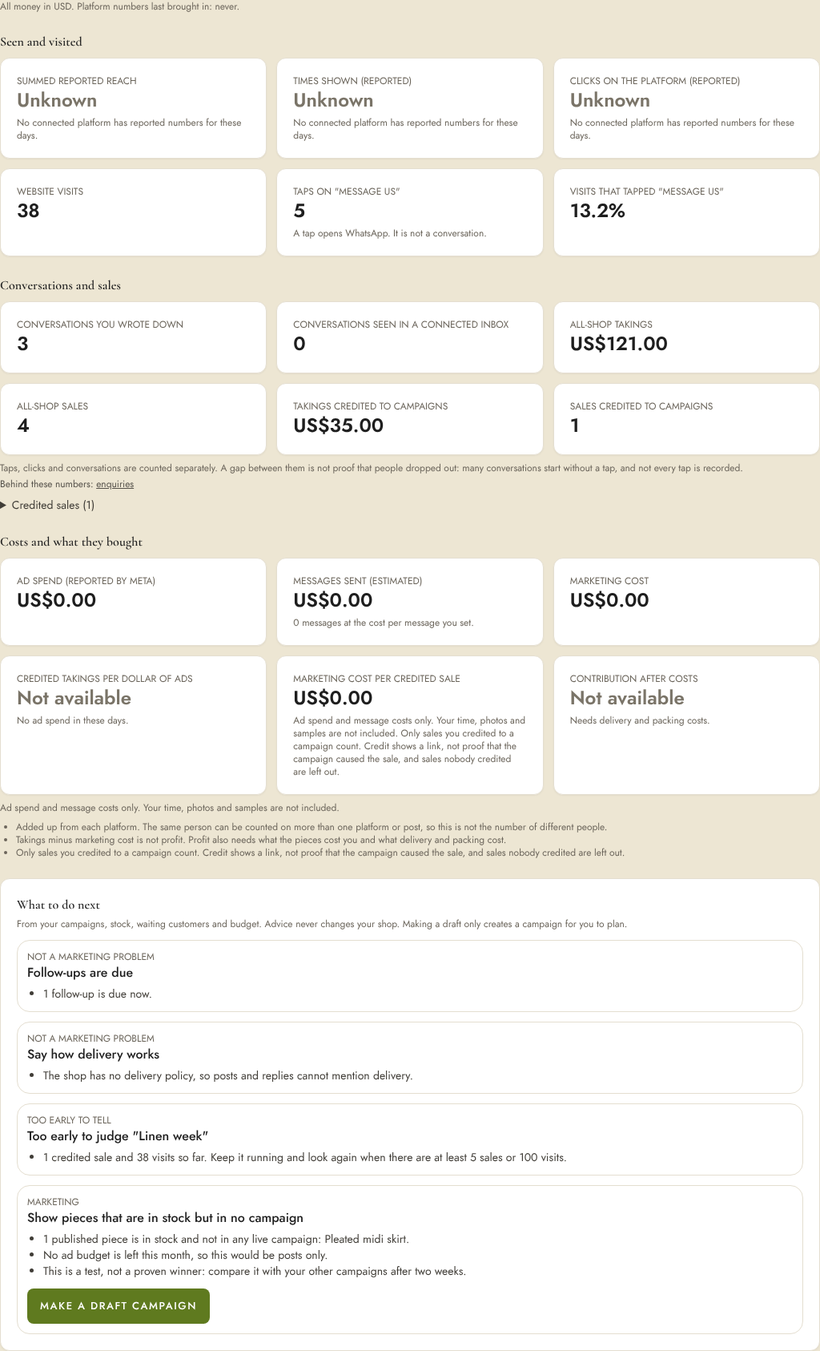
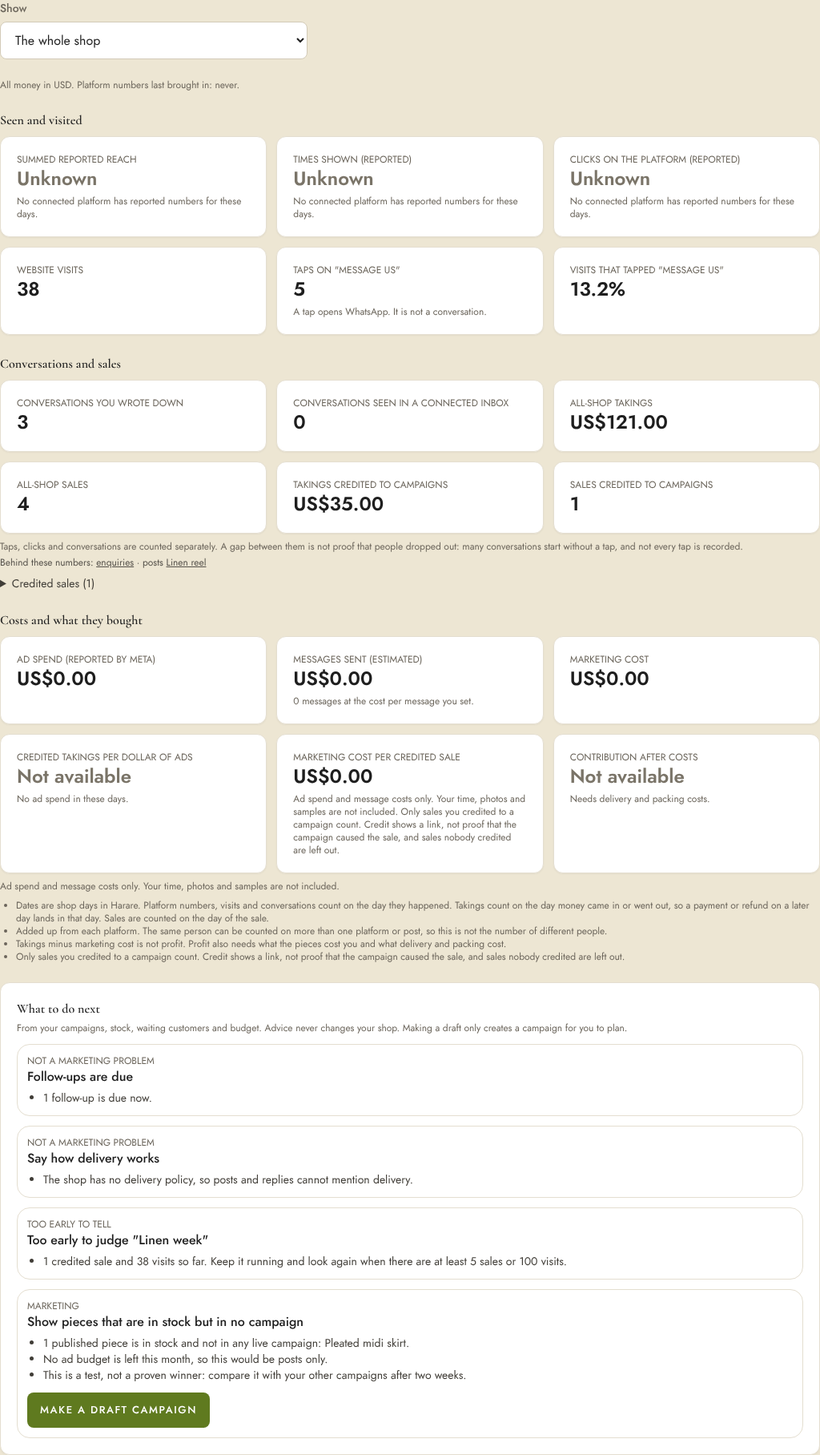
ZP-1119 (MM-14): tables show Unknown for unreported platform numbers; results per campaign
The By channel, post, product and campaign tables now count the days a platform
actually reported. Without one, reach, times shown and clicks show Unknown with
the same labels as the panel, instead of 0 or impressions-or-reach as Seen.
The panel can show one campaign: its cost is its ad spend, and messages are
said to be not tied to a campaign. The date basis is stated, the credited
sales list says it is by sale day, and posts link to their content.
The advice test now counts only its own campaign's posts and ads.

Claude-Session: https://claude.ai/code/session_01HzLRkQyMFxADTmZvX5da2b

diff --git a/src/components/marketing/TruthPanel.tsx b/src/components/marketing/TruthPanel.tsx
@@ -17,11 +17,12 @@ interface Truth {
     roas: Metric; costPerCreditedSale: Metric; contribution: Metric & { missing: string[] };
     notes: string[];
   };
-  records: { creditedSaleIds: number[]; creditedSales: { id: number; saleDate: string; total: number; customerName: string | null }[]; adIds: number[]; postIds: number[]; broadcastIds: number[] };
+  campaignId: number | null;
+  records: { creditedSaleIds: number[]; creditedSales: { id: number; saleDate: string; total: number; customerName: string | null }[]; adIds: number[]; postIds: number[]; posts: { id: number; contentId: number; title: string }[]; broadcastIds: number[] };
 }
 interface Advice { key: string; kind: 'MARKETING' | 'NOT_MARKETING' | 'TOO_EARLY'; title: string; evidence: string[]; draft: { name: string; productIds: number[] } | null }
 
-const MONEY = new Set(['All-shop takings', 'Takings credited to campaigns', 'Marketing cost', 'Marketing cost per credited sale', 'Contribution after costs']);
+const MONEY = new Set(['All-shop takings', 'Takings credited to campaigns', 'Takings credited to this campaign', 'Marketing cost', 'Marketing cost per credited sale', 'Contribution after costs']);
 const KIND_LABEL: Record<Advice['kind'], string> = { MARKETING: 'Marketing', NOT_MARKETING: 'Not a marketing problem', TOO_EARLY: 'Too early to tell' };
 
 function show(m: Metric, money = false): string {
@@ -43,16 +44,23 @@ function Tile({ m, testId }: { m: Metric; testId?: string }) {
   );
 }
 
-export function TruthPanel({ from, to }: { from: string; to: string }) {
+export function TruthPanel({ from, to, campaignId: fixedCampaign }: { from: string; to: string; campaignId?: number }) {
   const [d, setD] = useState<{ truth: Truth; advice: Advice[] } | null>(null);
+  const [campaigns, setCampaigns] = useState<{ id: number; name: string }[]>([]);
+  const [chosen, setChosen] = useState<number | null>(fixedCampaign ?? null);
   const [error, setError] = useState<string | null>(null);
   const [note, setNote] = useState<string | null>(null);
   const [busy, setBusy] = useState<string | null>(null);
 
   const load = useCallback(() => {
-    mk<{ truth: Truth; advice: Advice[] }>(`/api/marketing/results/truth?from=${from}&to=${to}`).then(setD).catch((e) => setError(e instanceof Error ? e.message : 'Could not load.'));
-  }, [from, to]);
+    const q = chosen ? `&campaignId=${chosen}` : '';
+    mk<{ truth: Truth; advice: Advice[] }>(`/api/marketing/results/truth?from=${from}&to=${to}${q}`).then(setD).catch((e) => setError(e instanceof Error ? e.message : 'Could not load.'));
+  }, [from, to, chosen]);
   useEffect(() => { load(); }, [load]);
+  useEffect(() => {
+    if (fixedCampaign) return;
+    mk<{ campaigns: { id: number; name: string }[] }>('/api/marketing/campaigns').then((x) => setCampaigns(x.campaigns)).catch(() => setCampaigns([]));
+  }, [fixedCampaign]);
 
   const accept = async (a: Advice) => {
     setBusy(a.key); setError(null); setNote(null);
@@ -71,6 +79,15 @@ export function TruthPanel({ from, to }: { from: string; to: string }) {
     <div className="space-y-6" data-testid="truth-panel">
       <ErrorNote message={error} />
       {note ? <p className="rounded-lg border border-brand-olive-200 bg-brand-olive-50 px-4 py-3 text-sm text-brand-olive-700" role="status" data-testid="truth-note">{note}</p> : null}
+      {!fixedCampaign ? (
+        <div className="max-w-sm">
+          <label className="label" htmlFor="truth-campaign">Show</label>
+          <select id="truth-campaign" className="input" value={chosen ?? ''} onChange={(e) => setChosen(e.target.value ? Number(e.target.value) : null)} data-testid="truth-campaign">
+            <option value="">The whole shop</option>
+            {campaigns.map((c) => <option key={c.id} value={c.id}>Campaign: {c.name}</option>)}
+          </select>
+        </div>
+      ) : null}
       <p className="text-xs text-slate-500">All money in {d.truth.currency}. Platform numbers last brought in: {d.truth.syncedAt ? new Intl.DateTimeFormat('en-GB', { dateStyle: 'medium', timeStyle: 'short', timeZone: 'Africa/Harare' }).format(new Date(d.truth.syncedAt)) : 'never'}.</p>
 
       <section>
@@ -91,12 +108,13 @@ export function TruthPanel({ from, to }: { from: string; to: string }) {
         <p className="mt-2 text-xs text-slate-500">{r.conversations.note}</p>
         <p className="mt-1 text-xs text-slate-600" data-testid="truth-records">
           Behind these numbers: <Link className="underline" href="/marketing/enquiries">enquiries</Link>
-          {rec.postIds.length ? <> · {rec.postIds.length} posts</> : null}
-          {rec.adIds.length ? <> · ads {rec.adIds.map((id, i) => <React.Fragment key={id}>{i ? ', ' : ''}<Link className="underline" href="/marketing/ads">{id}</Link></React.Fragment>)}</> : null}
+          {rec.posts.length ? <> · posts {rec.posts.map((p, i) => <React.Fragment key={p.id}>{i ? ', ' : ''}<Link className="underline" href={`/marketing/content/${p.contentId}`}>{p.title}</Link></React.Fragment>)}</> : null}
+          {rec.adIds.length ? <> · ads {rec.adIds.map((id, i) => <React.Fragment key={id}>{i ? ', ' : ''}<Link className="underline" href="/marketing/ads">ad {id}</Link></React.Fragment>)}</> : null}
           {rec.broadcastIds.length ? <> · messages {rec.broadcastIds.map((id, i) => <React.Fragment key={id}>{i ? ', ' : ''}<Link className="underline" href={`/marketing/messages/${id}`}>{id}</Link></React.Fragment>)}</> : null}
         </p>
         <details className="mt-2" data-testid="truth-credited-sales">
           <summary className="cursor-pointer text-sm text-slate-700">Credited sales ({rec.creditedSales.length})</summary>
+          <p className="mt-1 text-xs text-slate-500">Listed by the day of the sale. Credited takings count money on the day it came in or went out, so a later payment or refund can make the two differ.</p>
           {rec.creditedSales.length === 0 ? <p className="mt-1 text-sm text-slate-500">None in these dates.</p> : (
             <ul className="mt-1 divide-y divide-slate-100 text-sm">
               {rec.creditedSales.map((s) => <li key={s.id} className="py-1">Sale {s.id} · {new Intl.DateTimeFormat('en-GB', { dateStyle: 'medium', timeZone: 'Africa/Harare' }).format(new Date(s.saleDate))} · US${s.total.toFixed(2)}{s.customerName ? ` · ${s.customerName}` : ''}</li>)}
@@ -116,7 +134,7 @@ export function TruthPanel({ from, to }: { from: string; to: string }) {
         <ul className="mt-2 list-disc pl-5 text-xs text-slate-500">{r.notes.map((n) => <li key={n}>{n}</li>)}</ul>
       </section>
 
-      <Card>
+      {d.truth.campaignId ? null : <Card>
         <h2 className="font-semibold text-slate-900 mb-1">What to do next</h2>
         <p className="text-xs text-slate-500 mb-3">From your campaigns, stock, waiting customers and budget. Advice never changes your shop. Making a draft only creates a campaign for you to plan.</p>
         {d.advice.length === 0 ? <p className="text-sm text-slate-500">Nothing stands out right now.</p> : null}
@@ -130,7 +148,7 @@ export function TruthPanel({ from, to }: { from: string; to: string }) {
             </li>
           ))}
         </ul>
-      </Card>
+      </Card>}
     </div>
   );
 }

diff --git a/tests/results-truth-db.test.ts b/tests/results-truth-db.test.ts
@@ -4,6 +4,7 @@
 import { describe, test, before, after } from 'node:test'
 import assert from 'node:assert'
 import prisma from '../src/lib/db'
+import { resultsReport } from '../src/lib/marketing/results'
 import { acceptAdvice, loadAdvice, loadTruth } from '../src/lib/marketing/results-truth-db'
 import { WebsiteError } from '../src/lib/website/http'
 
@@ -52,6 +53,29 @@ describe('MM-14 against the real ledger', () => {
     assert.strictEqual(t.currency, 'USD')
   })
 
+  test('AC1 and AC3 on the tables: a row with only website numbers has no reported platform days, so the page shows Unknown, not 0', async () => {
+    // The analytics rollup writes visits onto the post's daily row with no platform payload (raw stays null).
+    await prisma.marketingMetric.create({ data: { entity: 'POST', entityId: ids.post, day: new Date('2034-05-10T00:00:00Z'), visits: 40, enquiries: 4 } })
+    const r = await resultsReport(prisma, range)
+    const row = r.perPost.find((p) => p.postId === ids.post)!
+    assert.deepStrictEqual([row.visits, row.reportedDays, row.reach, row.impressions, row.clicks], [40, 0, 0, 0, 0])
+    const campaignRow = r.perCampaign.find((c) => c.key === String(ids.campaign))!
+    assert.strictEqual(campaignRow.reportedDays, 0)
+    // The panel for the same campaign agrees: unknown.
+    assert.strictEqual((await loadTruth(prisma, range, { campaignId: ids.campaign })).report.reach.state, 'UNKNOWN')
+  })
+
+  test('one campaign: messages are not tied to it, so its cost is its ad spend only; posts link to their content', async () => {
+    const t = await loadTruth(prisma, range, { campaignId: ids.campaign })
+    const msg = t.report.costs.items.find((m) => m.label === 'Messages sent')!
+    assert.strictEqual(msg.state, 'NOT_AVAILABLE')
+    assert.match(msg.note ?? '', /not tied to a campaign/)
+    assert.doesNotMatch(JSON.stringify(t.report.costs), /No messages were sent/)
+    assert.deepStrictEqual([t.report.costs.total.state, t.report.costs.total.value], ['KNOWN', 0])
+    assert.deepStrictEqual(t.records.posts, [{ id: ids.post, contentId: ids.content, title: 'ZP1119 content' }])
+    assert.ok(t.report.notes.some((n) => /day money came in/.test(n)))
+  })
+
   test('AC1 and AC6: once a platform reports, reach is summed reported reach; the records behind the numbers are listed', async () => {
     await prisma.marketingMetric.create({ data: { entity: 'POST', entityId: ids.post, day: new Date('2034-05-11T00:00:00Z'), reach: 300, impressions: 500, clicks: 9, raw: { lifetime: { reach: 300 } } } })
     const t = await loadTruth(prisma, range, { campaignId: ids.campaign })
@@ -59,6 +83,9 @@ describe('MM-14 against the real ledger', () => {
     assert.deepStrictEqual(t.records.creditedSaleIds, [ids.sale])
     assert.deepStrictEqual(t.records.postIds, [ids.post])
     assert.ok(t.syncedAt)
+    // The tables now count that reported day, and show the same reach as the panel.
+    const row = (await resultsReport(prisma, range)).perPost.find((p) => p.postId === ids.post)!
+    assert.deepStrictEqual([row.reportedDays, row.reach, row.impressions, row.clicks], [1, 300, 500, 9])
   })
 
   test('AC4: a sold piece with no cost on file keeps contribution unavailable; fulfilment is never on file', async () => {
@@ -77,12 +104,18 @@ describe('MM-14 against the real ledger', () => {
     const advice = await loadAdvice(prisma, range, at('2034-05-20'))
     const idle = advice.find((a) => a.key.startsWith('idle-stock') && a.draft?.productIds.includes(ids.products[1]))
     assert.ok(idle, 'piece 2 is in stock and in no live campaign')
-    const before = { posts: await prisma.marketingPost.count(), ads: await prisma.marketingAd.count(), stock: (await prisma.product.findUniqueOrThrow({ where: { id: ids.products[1] } })).currentQuantity }
+    const stockBefore = (await prisma.product.findUniqueOrThrow({ where: { id: ids.products[1] } })).currentQuantity
     const c = await acceptAdvice(prisma, range, idle!.key, OWNER, at('2034-05-20'))
     ids.extraCampaigns.push(c.id)
     assert.strictEqual(c.status, 'DRAFT')
     assert.ok(c.productIds.includes(ids.products[1]))
-    assert.deepStrictEqual({ posts: await prisma.marketingPost.count(), ads: await prisma.marketingAd.count(), stock: (await prisma.product.findUniqueOrThrow({ where: { id: ids.products[1] } })).currentQuantity }, before)
+    // Nothing hangs off the draft and stock is untouched. Counted for this campaign only, because other test files
+    // running at the same time add and remove their own posts and ads.
+    assert.deepStrictEqual({
+      content: await prisma.marketingContent.count({ where: { campaignId: c.id } }),
+      ads: await prisma.marketingAd.count({ where: { campaignId: c.id } }),
+      stock: (await prisma.product.findUniqueOrThrow({ where: { id: ids.products[1] } })).currentQuantity,
+    }, { content: 0, ads: 0, stock: stockBefore })
     await assert.rejects(() => acceptAdvice(prisma, range, 'idle-stock-0', OWNER), (e: unknown) => e instanceof WebsiteError && e.status === 409)
     const forOwner = advice.find((a) => a.draft === null)
     if (forOwner) await assert.rejects(() => acceptAdvice(prisma, range, forOwner.key, OWNER, at('2034-05-20')), (e: unknown) => e instanceof WebsiteError && e.status === 409)

diff --git a/src/lib/marketing/results-truth.ts b/src/lib/marketing/results-truth.ts
@@ -24,6 +24,7 @@ export function rate(top: Metric, bottom: Metric, label: string): Metric {
 export const REACH_LABEL = 'Summed reported reach'
 export const REACH_NOTE = 'Added up from each platform. The same person can be counted on more than one platform or post, so this is not the number of different people.'
 export const ATTRIBUTION_LIMITS = 'Only sales you credited to a campaign count. Credit shows a link, not proof that the campaign caused the sale, and sales nobody credited are left out.'
+export const DATE_BASIS = 'Dates are shop days in Harare. Platform numbers, visits and conversations count on the day they happened. Takings count on the day money came in or went out, so a payment or refund on a later day lands in that day. Sales are counted on the day of the sale.'
 export const PROFIT_NOTE = 'Takings minus marketing cost is not profit. Profit also needs what the pieces cost you and what delivery and packing cost.'
 
 /** How many records a judgement needs before it is more than a hint. */
@@ -36,6 +37,8 @@ export interface TruthInput {
   conversations: { ownerRecorded: number; providerObserved: number; won: number }
   sales: { allShopNetCents: number; allShopCount: number; creditedNetCents: number; creditedCount: number }
   costs: { adSpendCents: number; adSpendKnown: boolean; messageCostCents: number | null; messagesSent: number }
+  /** Set when the numbers are for one campaign. Messages are not tied to a campaign, so their cost is left out. */
+  campaignId?: number | null
   /** Cost of goods for the credited sales, when every sold piece has a unit cost. */
   goodsCostCents: number | null
   /** Delivery and packing cost: the shop does not record it yet. */
@@ -72,16 +75,22 @@ export function truthReport(i: TruthInput): TruthReport {
   const tapRate = rate(taps, visits, 'Visits that tapped "Message us"')
 
   const ad = i.costs.adSpendKnown ? known(money(i.costs.adSpendCents), 'Ad spend (reported by Meta)') : unknown('Ad spend', 'No ad has reported its spend.')
-  const msg = i.costs.messageCostCents === null
+  const msg: Metric = i.campaignId
+    ? { value: null, state: 'NOT_AVAILABLE', label: 'Messages sent', note: 'Messages are not tied to a campaign, so their cost is not counted here.' }
+    : i.costs.messageCostCents === null
     ? (i.costs.messagesSent > 0 ? unknown('Messages sent', `${i.costs.messagesSent} sent, but the cost per message is not set.`) : known(0, 'Messages sent', 'No messages were sent.'))
     : known(money(i.costs.messageCostCents), 'Messages sent (estimated)', `${i.costs.messagesSent} messages at the cost per message you set.`)
   const items = [ad, msg]
-  const allKnown = items.every((m) => m.state === 'KNOWN')
-  const total = allKnown ? known(items.reduce((s, m) => s + (m.value ?? 0), 0), 'Marketing cost') : unknown('Marketing cost', 'At least one cost is not known, so there is no total.')
-  const scope = 'Ad spend and message costs only. Your time, photos and samples are not included.'
+  // One campaign's cost is its ads only (messages belong to no campaign).
+  const counted = i.campaignId ? [ad] : items
+  const allKnown = counted.every((m) => m.state === 'KNOWN')
+  const total = allKnown ? known(counted.reduce((s, m) => s + (m.value ?? 0), 0), 'Marketing cost') : unknown('Marketing cost', 'At least one cost is not known, so there is no total.')
+  const scope = i.campaignId
+    ? 'This campaign\'s ad spend only. Messages are not tied to a campaign. Your time, photos and samples are not included.'
+    : 'Ad spend and message costs only. Your time, photos and samples are not included.'
 
-  const creditedNet = known(money(i.sales.creditedNetCents), 'Takings credited to campaigns')
-  const creditedCount = known(i.sales.creditedCount, 'Sales credited to campaigns')
+  const creditedNet = known(money(i.sales.creditedNetCents), i.campaignId ? 'Takings credited to this campaign' : 'Takings credited to campaigns')
+  const creditedCount = known(i.sales.creditedCount, i.campaignId ? 'Sales credited to this campaign' : 'Sales credited to campaigns')
   const roas = ad.state !== 'KNOWN'
     ? unknown('Credited takings per dollar of ads', 'Ad spend is not known.')
     : !ad.value
@@ -116,7 +125,7 @@ export function truthReport(i: TruthInput): TruthReport {
     },
     costs: { items, total, scope },
     roas, costPerCreditedSale, contribution,
-    notes: [REACH_NOTE, PROFIT_NOTE, ATTRIBUTION_LIMITS],
+    notes: [DATE_BASIS, REACH_NOTE, PROFIT_NOTE, ATTRIBUTION_LIMITS],
   }
 }
 

diff --git a/src/app/(admin)/marketing/results/page.tsx b/src/app/(admin)/marketing/results/page.tsx
@@ -7,7 +7,7 @@ import { TruthPanel } from '@/components/marketing/TruthPanel';
 import { getChannel } from '@/lib/marketing/channels';
 import { defaultRange, enquiryRate, REC_STATUS_LABELS, usd } from '@/lib/marketing/ui';
 
-interface Row { key: string; label: string; posts: number; ads: number; impressions: number; reach: number; clicks: number; visits: number; enquiries: number; spendCents: number }
+interface Row { key: string; label: string; posts: number; ads: number; impressions: number; reach: number; clicks: number; visits: number; enquiries: number; spendCents: number; reportedDays: number }
 interface Report {
   from: string; to: string;
   totals: Omit<Row, 'key' | 'label' | 'posts' | 'ads'>;
@@ -20,6 +20,11 @@ interface Rec { id: number; weekOf: string; kind: string; title: string; body: s
 
 const channelName = (k: string) => getChannel(k)?.label ?? k;
 
+/** A platform number is known only when a platform reported it for this row; otherwise it is unknown, never 0. */
+function Platform({ r, n }: { r: Row; n: number }) {
+  return r.reportedDays > 0 ? <>{n}</> : <span className="text-slate-400" data-state="UNKNOWN">Unknown</span>;
+}
+
 function Table({ title, rows, labelOf, testId }: { title: string; rows: Row[]; labelOf?: (r: Row) => string; testId: string }) {
   return (
     <Card>
@@ -30,8 +35,9 @@ function Table({ title, rows, labelOf, testId }: { title: string; rows: Row[]; l
             <thead>
               <tr className="text-left text-xs uppercase text-slate-500">
                 <th className="py-2 pr-3 font-medium">Name</th>
-                <th className="py-2 pr-3 font-medium text-right">Seen</th>
-                <th className="py-2 pr-3 font-medium text-right">Clicks</th>
+                <th className="py-2 pr-3 font-medium text-right">Summed reported reach</th>
+                <th className="py-2 pr-3 font-medium text-right">Times shown (reported)</th>
+                <th className="py-2 pr-3 font-medium text-right">Clicks (reported)</th>
                 <th className="py-2 pr-3 font-medium text-right">Visits</th>
                 <th className="py-2 pr-3 font-medium text-right">Message taps</th>
                 <th className="py-2 pr-3 font-medium text-right">Tap rate</th>
@@ -42,8 +48,9 @@ function Table({ title, rows, labelOf, testId }: { title: string; rows: Row[]; l
               {rows.map((r) => (
                 <tr key={r.key}>
                   <td className="py-2 pr-3 text-slate-900">{labelOf ? labelOf(r) : r.label}</td>
-                  <td className="py-2 pr-3 text-right">{r.impressions || r.reach}</td>
-                  <td className="py-2 pr-3 text-right">{r.clicks}</td>
+                  <td className="py-2 pr-3 text-right"><Platform r={r} n={r.reach} /></td>
+                  <td className="py-2 pr-3 text-right"><Platform r={r} n={r.impressions} /></td>
+                  <td className="py-2 pr-3 text-right"><Platform r={r} n={r.clicks} /></td>
                   <td className="py-2 pr-3 text-right">{r.visits}</td>
                   <td className="py-2 pr-3 text-right">{r.enquiries}</td>
                   <td className="py-2 pr-3 text-right">{enquiryRate(r.visits, r.enquiries)}</td>
@@ -127,7 +134,7 @@ export default function ResultsPage() {
             {busy === 'sync' ? 'Updating…' : 'Update the numbers'}
           </button>
         </div>
-        <p className="mt-2 text-xs text-slate-500">Visits and message taps come from your own website. A tap opens WhatsApp: it is not a conversation. Conversations are under Enquiries. Seen and clicks come from Facebook, Instagram and Meta ads once they are connected.</p>
+        <p className="mt-2 text-xs text-slate-500">Visits and message taps come from your own website. A tap opens WhatsApp: it is not a conversation. Conversations are under Enquiries. Reach, times shown and clicks come from Facebook, Instagram and Meta ads once they are connected. Until a platform reports them for a row, they show as Unknown.</p>
       </Card>
 
       {!report ? <Loading /> : (

diff --git a/src/lib/marketing/results-truth-db.ts b/src/lib/marketing/results-truth-db.ts
@@ -20,6 +20,8 @@ export interface TruthRecords {
   creditedSales: { id: number; saleDate: string; total: number; customerName: string | null }[]
   adIds: number[]
   postIds: number[]
+  /** The posts behind the numbers, with the content page each one belongs to. */
+  posts: { id: number; contentId: number; title: string }[]
   broadcastIds: number[]
 }
 
@@ -99,9 +101,12 @@ export async function loadTruth(db: Db, range: { from: string; to: string }, opt
     conversations: { ownerRecorded: conv.ownerRecorded, providerObserved: conv.providerObserved, won: conv.won },
     sales: { allShopNetCents: cents(sales.allShop.net), allShopCount: sales.allShop.salesCount, creditedNetCents, creditedCount },
     costs: { adSpendCents: sum(adRows, 'spendCents'), adSpendKnown, messageCostCents, messagesSent: sent.length },
+    campaignId,
     goodsCostCents: creditedSales.length ? goodsCostCents : 0,
     fulfilmentCostCents: null,
   })
+  const postIdsWithNumbers = [...new Set(metrics.filter((m) => m.entity === 'POST').map((m) => m.entityId))].sort((a, b) => a - b)
+  const postRows = await db.marketingPost.findMany({ where: { id: { in: postIdsWithNumbers } }, select: { id: true, contentId: true, content: { select: { title: true } } }, orderBy: { id: 'asc' } })
   const last = await db.marketingMetric.findFirst({ where: { NOT: { raw: { equals: Prisma.AnyNull } } }, orderBy: { updatedAt: 'desc' }, select: { updatedAt: true } })
   return {
     from: range.from, to: range.to, campaignId, currency: 'USD',
@@ -111,7 +116,8 @@ export async function loadTruth(db: Db, range: { from: string; to: string }, opt
       creditedSaleIds: creditedSales.map((s) => s.id).sort((a, b) => a - b),
       creditedSales: creditedSales.map((s) => ({ id: s.id, saleDate: s.saleDate.toISOString(), total: s.totalAmount, customerName: s.customerName })).sort((a, b) => a.id - b.id),
       adIds: [...new Set(adRows.filter((m) => m.spendCents > 0).map((m) => m.entityId))].sort((a, b) => a - b),
-      postIds: [...new Set(metrics.filter((m) => m.entity === 'POST').map((m) => m.entityId))].sort((a, b) => a - b),
+      postIds: postIdsWithNumbers,
+      posts: postRows.map((p) => ({ id: p.id, contentId: p.contentId, title: p.content.title })),
       broadcastIds: [...new Set(sent.map((r) => r.broadcast.id))].sort((a, b) => a - b),
     },
   }

diff --git a/src/lib/marketing/results.ts b/src/lib/marketing/results.ts
@@ -27,8 +27,10 @@ export interface Totals {
   visits: number
   enquiries: number
   spendCents: number
+  /** Daily rows a platform actually reported (raw is set). 0 means reach, times shown and clicks are unknown, not 0. */
+  reportedDays: number
 }
-export const zeroTotals = (): Totals => ({ impressions: 0, reach: 0, clicks: 0, visits: 0, enquiries: 0, spendCents: 0 })
+export const zeroTotals = (): Totals => ({ impressions: 0, reach: 0, clicks: 0, visits: 0, enquiries: 0, spendCents: 0, reportedDays: 0 })
 const addTo = (t: Totals, m: Partial<Totals>) => {
   t.impressions += m.impressions ?? 0
   t.reach += m.reach ?? 0
@@ -36,6 +38,7 @@ const addTo = (t: Totals, m: Partial<Totals>) => {
   t.visits += m.visits ?? 0
   t.enquiries += m.enquiries ?? 0
   t.spendCents += m.spendCents ?? 0
+  t.reportedDays += m.reportedDays ?? 0
 }
 
 export interface ResultsDeps {
@@ -199,11 +202,11 @@ function bump(map: Acc, key: string, label: string, m: Partial<Totals>, kind: 'p
   map.set(key, row)
   return row
 }
-const sumMetrics = (rows: { entityId: number; impressions: number; reach: number; clicks: number; spendCents: number; enquiries: number; visits: number }[]) => {
+const sumMetrics = (rows: { entityId: number; impressions: number; reach: number; clicks: number; spendCents: number; enquiries: number; visits: number; raw: unknown }[]) => {
   const m = new Map<number, Totals>()
   for (const r of rows) {
     const t = m.get(r.entityId) ?? zeroTotals()
-    addTo(t, r)
+    addTo(t, { ...r, reportedDays: r.raw !== null ? 1 : 0 })
     m.set(r.entityId, t)
   }
   return m

diff --git a/tests/results-truth.test.ts b/tests/results-truth.test.ts
@@ -50,6 +50,19 @@ describe('MM-14-AC3: unknown is not zero; nothing over zero', () => {
     assert.strictEqual(r.costs.total.state, 'UNKNOWN')
     assert.strictEqual(r.costPerCreditedSale.state, 'UNKNOWN')
   })
+  test('one campaign: messages are "not tied to a campaign", never "No messages were sent"; the cost is ad spend only', () => {
+    const r = truthReport(base({ campaignId: 7, costs: { adSpendCents: 5000, adSpendKnown: true, messageCostCents: 0, messagesSent: 0 } }))
+    assert.deepStrictEqual([r.costs.items[1].state, r.costs.items[1].note], ['NOT_AVAILABLE', 'Messages are not tied to a campaign, so their cost is not counted here.'])
+    assert.deepStrictEqual([r.costs.total.state, r.costs.total.value], ['KNOWN', 50])
+    assert.match(r.costs.scope, /ad spend only/)
+    assert.doesNotMatch(JSON.stringify(r), /No messages were sent/)
+  })
+  test('the date basis is stated: shop days, money on the day it moved, sales on the day of the sale', () => {
+    const notes = truthReport(base()).notes.join(' ')
+    assert.match(notes, /shop days in Harare/)
+    assert.match(notes, /day money came in or went out/)
+    assert.match(notes, /day of the sale/)
+  })
 })
 
 describe('MM-14-AC4: never profit; contribution needs every cost', () => {
